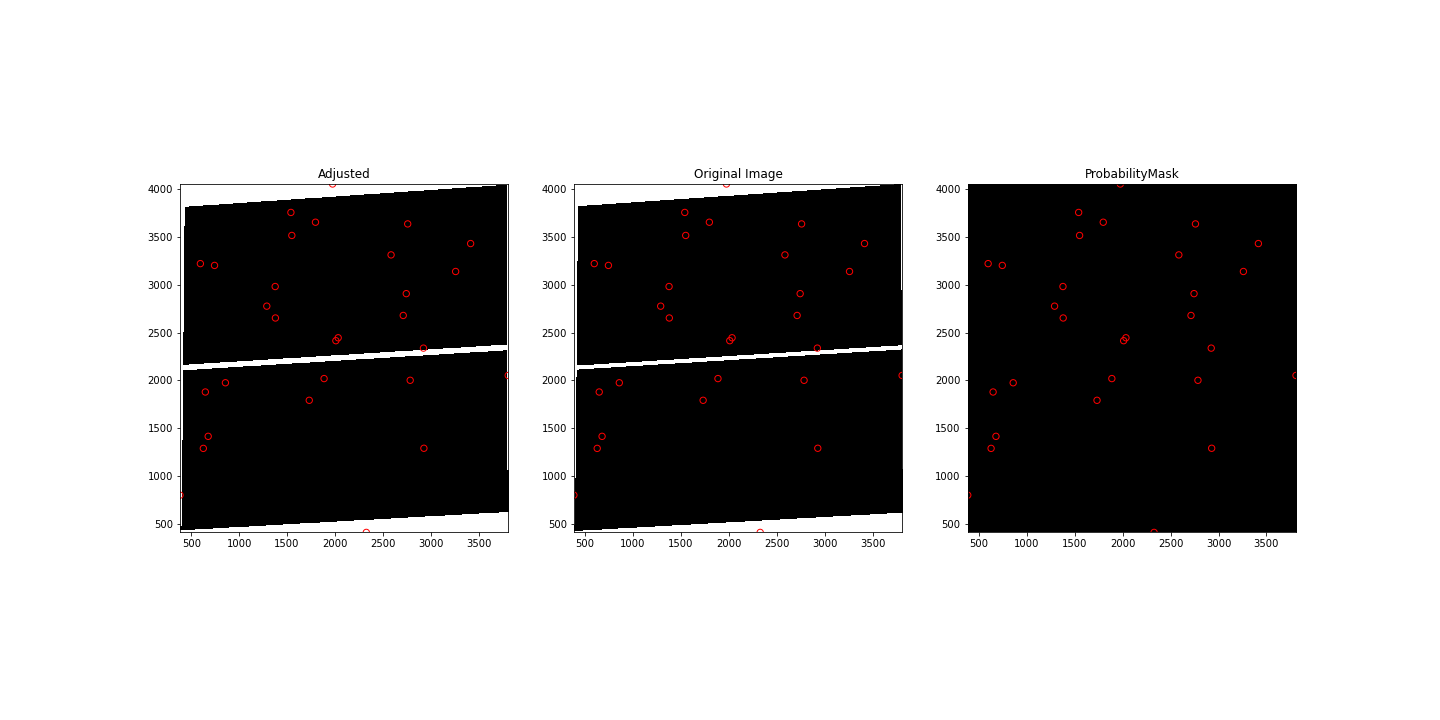
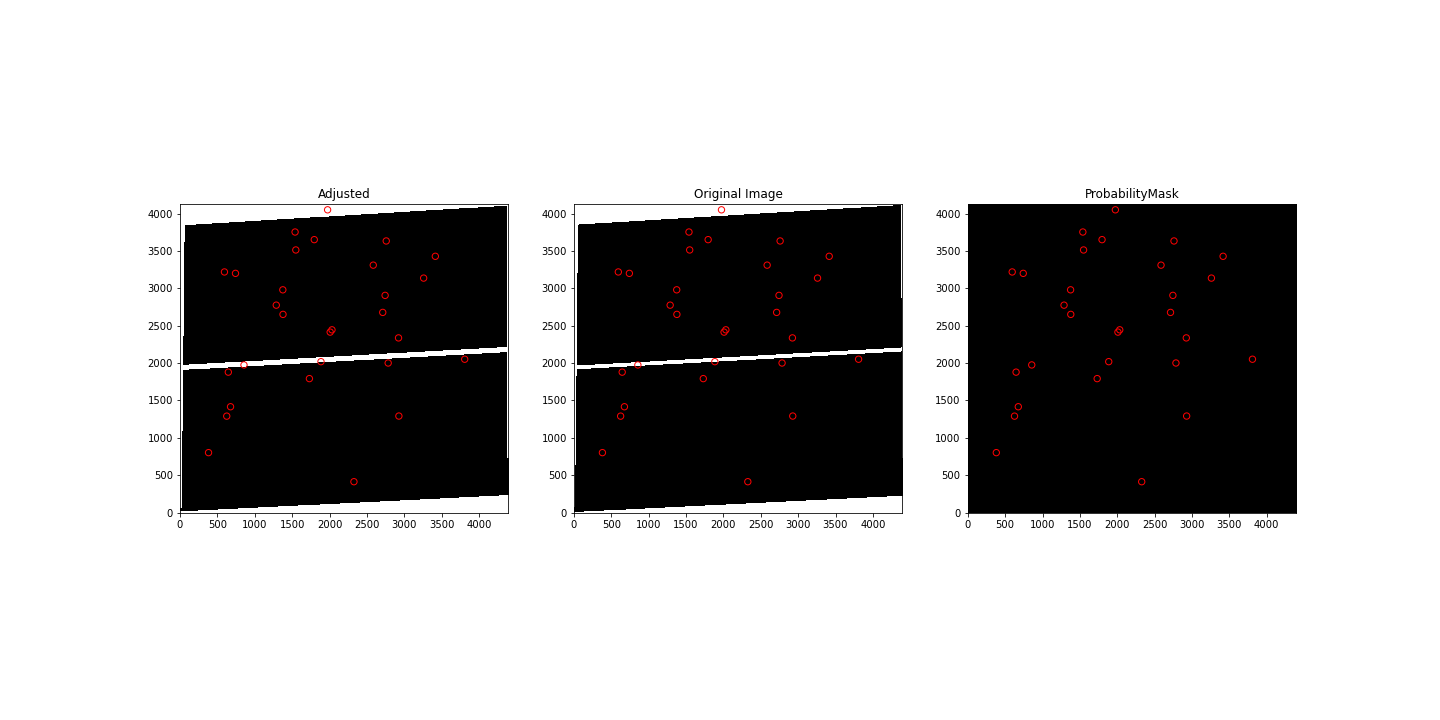
adding images

diff --git a/test_hst.py b/test_hst.py
@@ -29,11 +29,14 @@ thresh = 0.5
 lost = []
 n = 0
 bad_im = 0
-for path in paths:
+for path in paths[0:4]:
     n +=1
     print(f'Processing image {n} of {length}')
     #try:
     image = fits.getdata(path)
+    x_shape = image.shape[0]
+    y_shape = image.shape[1]
+    #print(image.shape)
 #    names = ['raQSO','decQSO']
     dtype = []
     dtype.append( ('raQSO','U20') )
@@ -57,12 +60,14 @@ for path in paths:
     mask, cleaned_image = mdl.clean(image, threshold = thresh)
     vmax = np.median(cleaned_image)+5*np.std(cleaned_image)
     vmin = np.median(cleaned_image)-5*np.std(cleaned_image)
+    extent = [0, x_shape, 0, y_shape]
    # dx, dy = 0.5, 0.5
 
    # xi = np.arange(np.min(pix_x), np.max(pix_x), dx)
    # yi = np.arange(np.min(pix_y), np.max(pix_y), dy)
    # X, Y = np.meshgrid(xi, yi)
-    extent = [np.min(pix_x), np.max(pix_x), np.min(pix_y), np.max(pix_y)]
+   #extent = [0, x_shape, 0, y_shape]
+   #extent = [np.min(pix_x), np.max(pix_x), np.min(pix_y), np.max(pix_y)]
     figs, axs = plt.subplots(1,3, frameon = False)
     axs[0].imshow(cleaned_image, vmin = vmin, vmax = vmax, origin = 'lower', cmap = 'gray', 
                   extent=extent)
